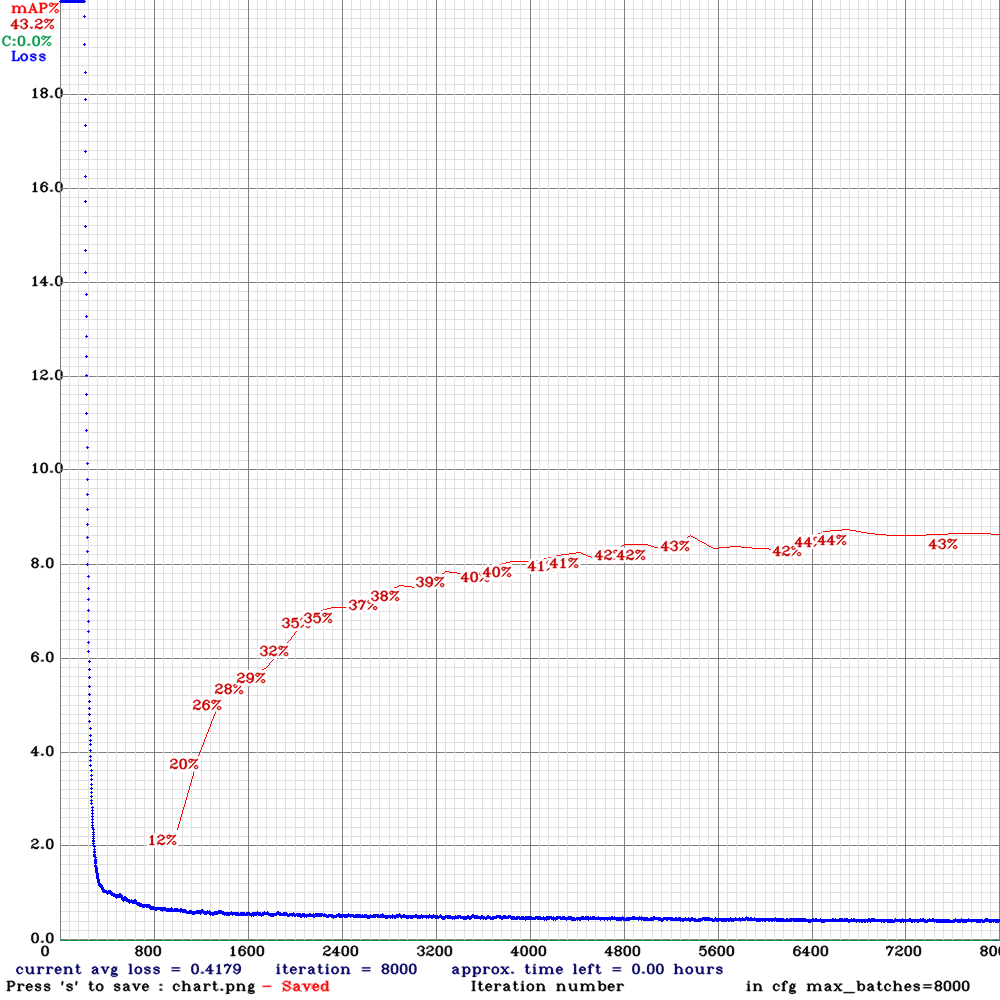
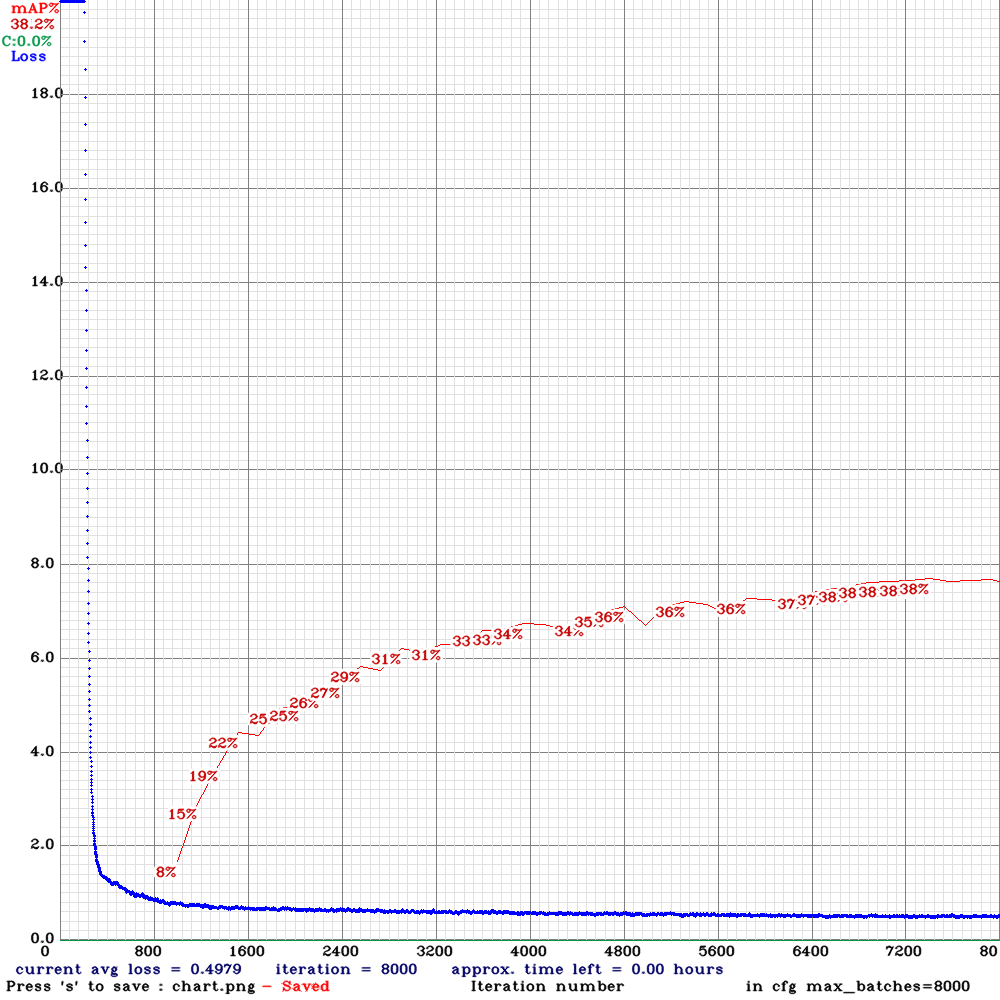
update

diff --git a/Convert_XML_To_YOLO.py b/Convert_XML_To_YOLO.py
@@ -63,7 +63,7 @@ def run_convert(all_classes, train_img, train_annotation, yolo_path, write_train
     with open(write_val_txt, 'a') as f:
         f.write('\n'.join(datasets[len_datasets:]))
 
-all_classes = {'mouse': 0, 'keyboard': 1, 'person': 2}
+all_classes = {'mouse': 0, 'keyboard': 1, 'cell phone': 2}
 train_img = "../datasets/coco_2017/images"
 train_annotation = "../datasets/coco_2017/annotations"
 yolo_path = "YOLO/data/"
